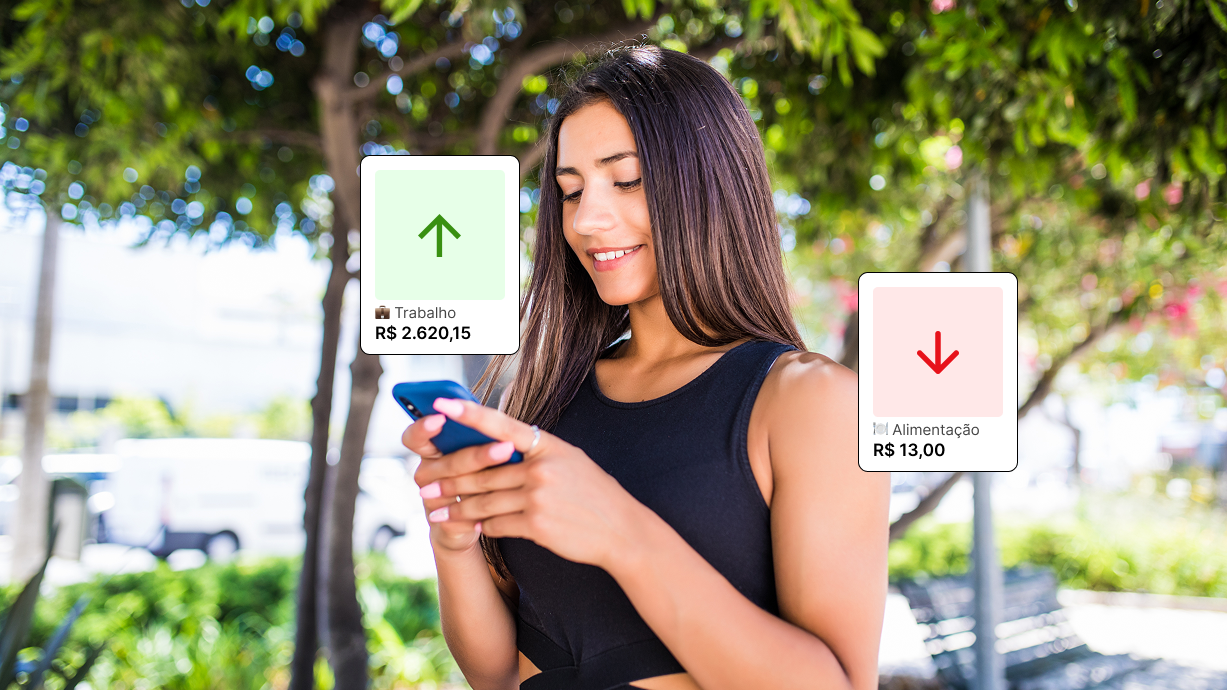
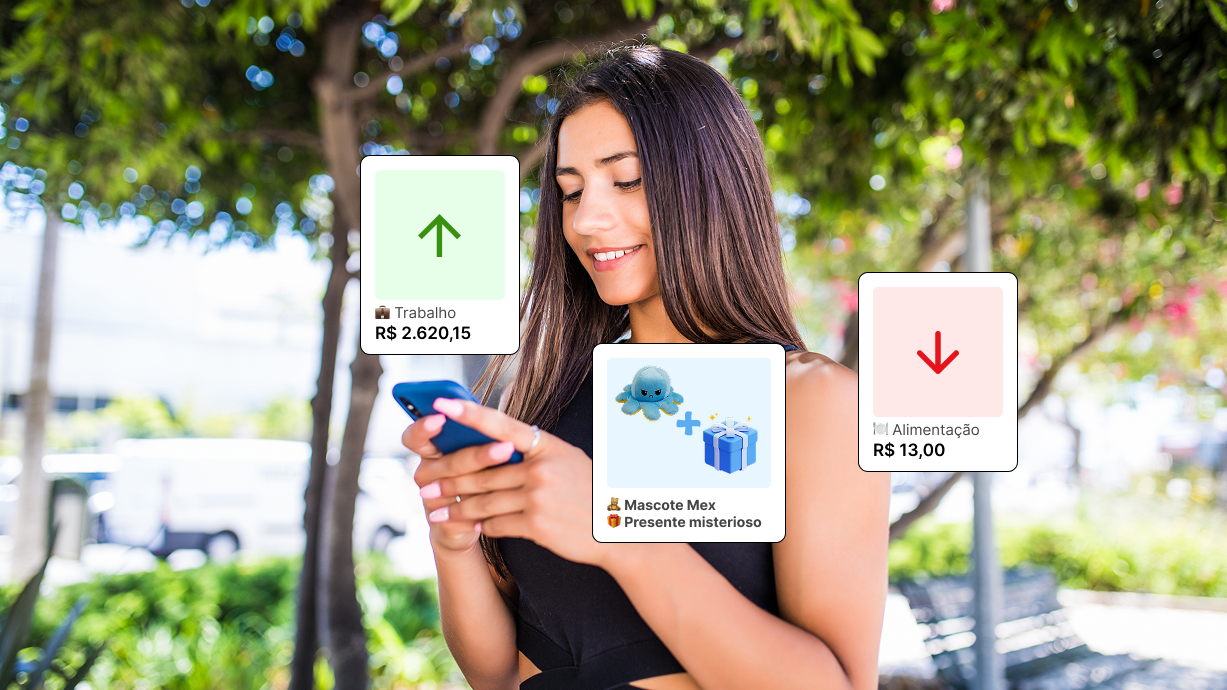
fix: update SEO

Changed region(s): [[0.4645, 0.487, 0.6504, 0.7913]]

diff --git a/src/components/UI/NewsNotice/styles.ts b/src/components/UI/NewsNotice/styles.ts
@@ -1,0 +1,151 @@
+'use client';
+import { styled } from 'styled-components';
+
+export const Wrapper = styled.section`
+  display: flex;
+  flex-direction: column;
+  gap: 1.25rem;
+  padding: 2.5rem 2.75rem;
+  width: 100%;
+  margin: 0 auto;
+  background: #f7f8fa;
+  border: 1px solid #c8cdd6;
+  border-top: 4px solid #1a3a5c;
+  box-shadow: 0 4px 24px rgba(0, 0, 0, 0.18);
+  font-family: 'Source Sans 3', 'Source Sans Pro', sans-serif;
+
+  @media (max-width: 600px) {
+    padding: 1.75rem 1.25rem;
+  }
+`;
+
+export const Header = styled.div`
+  display: flex;
+  justify-content: space-between;
+  align-items: flex-start;
+  gap: 1rem;
+  flex-wrap: wrap;
+`;
+
+export const HeaderMeta = styled.div`
+  display: flex;
+  flex-direction: column;
+  gap: 0.2rem;
+`;
+
+export const ProtocolLine = styled.span`
+  font-family: 'Source Sans 3', sans-serif;
+  font-size: 0.80rem;
+  color: #4a5568;
+`;
+
+export const Seal = styled.div`
+  display: flex;
+  align-items: center;
+  gap: 0.4rem;
+  background: #dfe2e7;
+  color: #fff;
+  padding: 0.35rem 0.85rem;
+  flex-shrink: 0;
+`;
+
+export const SealText = styled.span`
+  font-family: 'Source Sans 3', sans-serif;
+  font-size: 0.85rem;
+  color: black;
+`;
+
+export const Title = styled.h1`
+  font-family: 'Source Serif 4', 'Source Serif Pro', serif;
+  font-size: 1.55rem;
+  font-weight: 600;
+  color: #1a3a5c;
+  line-height: 1.3;
+  margin: 0;
+  letter-spacing: -0.01em;
+
+  @media (max-width: 480px) {
+    font-size: 1.25rem;
+  }
+`;
+
+export const Subtitle = styled.p`
+  font-family: 'Source Serif 4', serif;
+  font-size: 0.9rem;
+  color: #4a5568;
+  margin: -0.75rem 0 0;
+  font-style: italic;
+`;
+
+export const Body = styled.div`
+  display: flex;
+  flex-direction: column;
+  gap: 0.9rem;
+`;
+
+export const BodyParagraph = styled.p`
+  font-family: 'Source Sans 3', sans-serif;
+  font-size: 0.97rem;
+  color: #2d3748;
+  line-height: 1.8;
+  margin: 0;
+  text-align: justify;
+
+  strong {
+    color: #1a3a5c;
+    font-weight: 700;
+  }
+
+  @media (max-width: 480px) {
+    font-size: 0.9rem;
+  }
+`;
+
+export const Divider = styled.hr`
+  border: none;
+  border-top: 1px solid #c8cdd6;
+  margin: 0;
+`;
+
+export const Footer = styled.div`
+  display: flex;
+  justify-content: space-between;
+  align-items: flex-end;
+  gap: 1rem;
+  flex-wrap: wrap;
+`;
+
+export const FooterLeft = styled.div`
+  display: flex;
+  flex-direction: column;
+  gap: 0.15rem;
+
+  strong {
+    font-size: 0.9rem;
+    color: #1a3a5c;
+  }
+
+  span {
+    font-size: 0.78rem;
+    color: #718096;
+    font-family: 'Source Sans 3', sans-serif;
+  }
+`;
+
+export const FooterRight = styled.div`
+  display: flex;
+  flex-direction: column;
+  align-items: flex-end;
+  gap: 0.1rem;
+
+  span {
+    font-size: 0.72rem;
+    color: #718096;
+    font-family: 'Source Sans 3', sans-serif;
+  }
+
+  strong {
+    font-size: 0.9rem;
+    color: #1a3a5c;
+  }
+`;

diff --git a/src/components/UI/NewsNotice/index.tsx b/src/components/UI/NewsNotice/index.tsx
@@ -1,0 +1,65 @@
+import {
+  Wrapper,
+  Header,
+  HeaderMeta,
+  ProtocolLine,
+  Seal,
+  SealText,
+  Title,
+  Subtitle,
+  Body,
+  BodyParagraph,
+  Divider,
+  Footer,
+  FooterLeft,
+  FooterRight,
+} from './styles';
+
+export default function NewsNotice() {
+  return (
+    <Wrapper>
+      <Header>
+        <HeaderMeta>
+          <ProtocolLine>Comunicado oficial Nº 001/2026</ProtocolLine>
+          <ProtocolLine>Publicado em: 21 de agosto de 2026</ProtocolLine>
+        </HeaderMeta>
+        <Seal>
+          <SealText>Serviços indisponíveis</SealText>
+        </Seal>
+      </Header>
+      <Divider />
+      <Title>Encerramento definitivo das atividades</Title>
+      <Subtitle>Mexpenses Soluções Financeiras LTDA</Subtitle>
+      <Body>
+        <BodyParagraph>
+          Em <strong>21 de agosto de 2026</strong>, a Mexpenses Soluções
+          Financeiras LTDA encerrou definitivamente suas atividades, incluindo
+          a operação do sistema web e do aplicativo móvel.
+        </BodyParagraph>
+        <BodyParagraph>
+          O serviço encontra-se descontinuado em caráter permanente, sem
+          previsão de retomada, em razão do cenário econômico adverso
+          enfrentado pelas empresas no Brasil.
+        </BodyParagraph>
+        <BodyParagraph>
+          Agradecemos a todos os usuários e parceiros que depositaram sua
+          confiança na Mexpenses ao longo desta jornada.
+        </BodyParagraph>
+      </Body>
+
+      <Divider />
+
+      <Footer>
+        <FooterLeft>
+          <strong>Direção Executiva</strong>
+          <span>Mexpenses Soluções Financeiras LTDA</span>
+          <span>CNPJ: 55.552.018/0001-98</span>
+        </FooterLeft>
+        <FooterRight>
+          <span>Data de vigência</span>
+          <strong>21 ago. 2026</strong>
+        </FooterRight>
+      </Footer>
+    </Wrapper>
+  );
+}

diff --git a/src/app/layout.tsx b/src/app/layout.tsx
@@ -88,7 +88,7 @@ const favicons = [
 ];
 
 export const metadata = {
-  title: 'Mexpenses - Menos planilha. Mais vida!',
+  title: 'Mexpenses - Finanças inteligentes + Sorteios excelentes',
   siteName: 'Mexpenses',
   description: 'Estamos aqui para te proporcionar algo além do controle financeiro. Estamos revolucionando o modo de como você cuida dos seus gastos, através de nossa Inteligência Artificial.',
   url: 'https://www.mexpenses.com.br',
@@ -124,6 +124,7 @@ export default function RootLayout({
         <meta name="title" content={metadata.title} />
         <link rel="preconnect" href="https://fonts.gstatic.com" />
         <link rel="stylesheet" href="https://fonts.googleapis.com/css2?family=Rubik:ital,wght@0,400;0,500;0,600;0,700;1,300&display=swap" />
+        <link rel="stylesheet" href="https://fonts.googleapis.com/css2?family=Source+Sans+3:wght@400;600;700&family=Source+Serif+4:ital,wght@0,400;0,600;1,400&display=swap" />
         <meta name="description" content="Estamos aqui para te proporcionar algo além do controle financeiro. Estamos revolucionando o modo de como você cuida dos seus gastos, através de nossa Inteligência Artificial." />
         <meta name="keywords" content="gestão financeira com chatgpt,chatgpt,mexpenses com chat chatgpt,chatgpt no mexpenses,login chatgpt,gestão financeira gratuita,controle financeiro gratuito,finanças grátis,site de finanças grátis,finanças brasileiras,gestão financeira dos brasileiros,mexpenses,mexpenses controle financeiro,mexpenses website,site mexpenses,aplicação mexpenses,controle financeiro,controlar dinheiro,fatec garça,fatec,tcc controle financeiro,tcc fatec garça,tcc mexpenses,hector mexpenses,maycon mexpenses,yara mexpenses" />
         {/* Twitter */}

diff --git a/src/components/index.ts b/src/components/index.ts
@@ -3,7 +3,7 @@ export { default as GetStartedButton } from './Common/GetStartedButton';
 export { default as HeroSection } from './UI/HeroSection';
 export { default as Featured } from './UI/Featured';
 export { default as OffersSection } from './UI/OffersSection';
-export { default as FinancilaFreedom } from './UI/FinancialFreedom';
+export { default as FinancialFreedom } from './UI/FinancialFreedom';
 export { default as FinancialFuture } from './UI/FinancialFuture';
 export { default as IntroSection } from './UI/IntroSection';
 export { default as JoinSection } from './UI/JoinSection';
@@ -16,3 +16,4 @@ export { default as Policy } from "./UI/Policy";
 export { default as AboutCompany } from "./UI/AboutCompany";
 export { default as SecurityPartner } from './UI/SecurityPartner';
 export { default as RedirectStore } from './Common/RedirectStore';
+export { default as NewsNotice } from './UI/NewsNotice';

diff --git a/src/components/UI/HeroSection/constants.ts b/src/components/UI/HeroSection/constants.ts
@@ -1,14 +1,14 @@
 // For desktop
-export const phrases = ['Menos planilha', 'Mais tempo!'];
+export const phrases = ['Finanças inteligentes', 'com a Mexpenses'];
 export const paragraphPhrases = [
-  "A gente não impressiona com frases.",
-  'Impressionamos simplificando o dinheiro sem frescura.'
+  "A gente não impressiona com frases. Impressionamos",
+  "simplificando o dinheiro e fazendo sorteios exclusivos.",
 ];
 
 // For mobile
-export const mobilePhrases = ['Menos planilha', 'Mais tempo!'];
+export const mobilePhrases = ['Finanças inteligentes', 'com a Mexpenses'];
 export const mobileParagraphPhrases = [
   "A gente não impressiona com frases.",
-  'Impressionamos simplificando',
-  "o dinheiro sem frescura."
+  "Impressionamos simplificando o dinheiro",
+  "e fazendo sorteios exclusivos."
 ];

diff --git a/src/app/(home)/page.tsx b/src/app/(home)/page.tsx
@@ -2,26 +2,28 @@ import {
   FAQ,
   Featured,
   FinancialFuture,
-  FinancilaFreedom,
+  FinancialFreedom,
   HeroSection,
   IntroSection,
   JoinSection,
+  NewsNotice,
   OffersSection
 } from '@/components';
 import { Metadata } from 'next';
 
 export const metadata: Metadata = {
-  title: 'Mexpenses - Menos planilha. Mais tempo!'
+  title: 'Mexpenses está com encerramento definitivo das atividades',
 };
 
 export default function Home() {
   return (
     <>
       <main>
+        <NewsNotice />
         <HeroSection />
         <Featured />
         <OffersSection />
-        <FinancilaFreedom />
+        <FinancialFreedom />
         <FinancialFuture />
         <IntroSection />
         <JoinSection />
